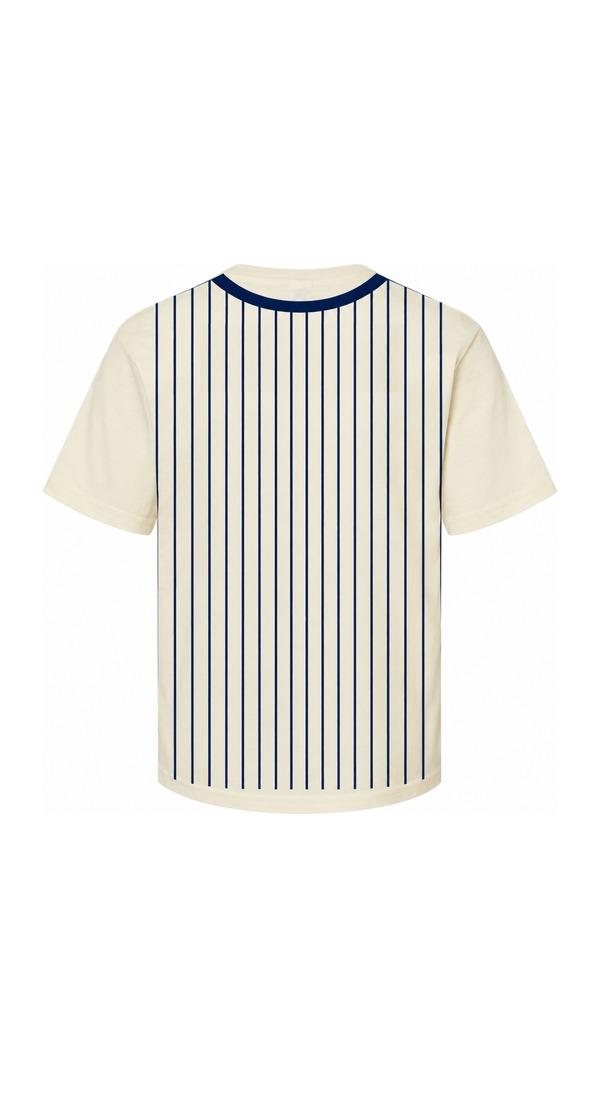
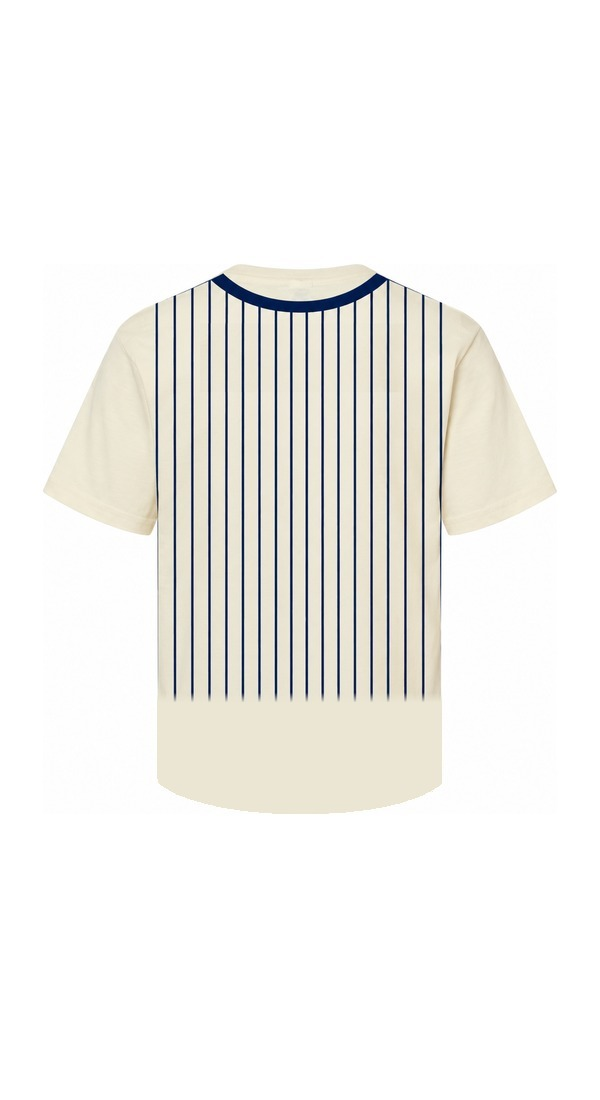
Kindergarten 50: rename products, YXS/YS/YM sizing, order deadline, photo fixes
- Rename products per Anne's requested naming: T-Birds Leather Jacket Tee,
  Rydell Cheer Tee, Blue 50s Varsity Sweater, Red 50s Varsity Sweater,
  Baseball Jersey Tee, Poodle Black Scarf Tee, Poodle Pink Collar Tee.
- Fix blurb copy on the two Varsity Sweater cardigans, which had leftover
  "pinstripe baseball jersey" text that didn't match the actual photos.
- Switch size options to YXS/YS/YM; size-chart button now reads "Click for
  size specs" / "Hide size specs".
- Add an "Order by Wed, Oct 7 to receive by Wed, Oct 13" banner to the
  section intro.
- Crop the child's face out of the Red 50s Varsity Sweater front photo
  (matching the no-faces framing already used elsewhere in the catalog).
- Shorten the pinstripe print on Baseball Jersey Tee and Peaches Baseball
  Tee (front+back) so it stops before the hem with plain fabric showing,
  instead of misleadingly running the full length of the shirt.
- Bump SITE_BUILD_ID to kinder50-catalog-v6.

Changed region(s): [[0.27, 0.6182, 0.75, 0.7418]]

diff --git a/index.html b/index.html
@@ -1082,8 +1082,9 @@
   <!-- KINDERGARTEN 50s (fixed design, fixed color per style, youth XS-M) -->
   <section class="card" id="kinder50">
     <h2>Kindergarten 50s</h2>
-    <p class="sub">50th Day of School costume tees — each style is a fixed design on one tee color with a graphic pressed on (shown in the photo), youth sizing XS–M. $25–$30 depending on style — see each card for its price.</p>
-    <button type="button" class="size-chart-link" id="kinder50SizeChartToggle">View size chart</button>
+    <p class="sub">50th Day of School costume tees — each style is a fixed design on one tee color with a graphic pressed on (shown in the photo), youth sizing YXS–YM. $25–$30 depending on style — see each card for its price.</p>
+    <p style="font-weight:700;color:var(--coral-dark);margin:4px 0 0;">Order by Wed, Oct 7 to receive by Wed, Oct 13 for school pickup.</p>
+    <button type="button" class="size-chart-link" id="kinder50SizeChartToggle">Click for size specs</button>
     <table class="size-chart-table" id="kinder50Chart"></table>
     <div class="product-grid" id="kinder50Grid"></div>
   </section>
@@ -1266,7 +1267,7 @@ const NV_SALES_TAX_RATE = 0.08375;
 // date: reload once to pick up the new one, and if it is still stale after that,
 // refuse to render the checkout buttons rather than take a wrong-amount payment.
 // Bump SITE_BUILD_ID and version.json together on every deploy that changes money.
-const SITE_BUILD_ID = '2026-10-04-kinder50-catalog-v5';
+const SITE_BUILD_ID = '2026-10-04-kinder50-catalog-v6';
 let siteBuildStale = false;
 
 function showStaleNotice(){
@@ -2432,27 +2433,28 @@ refreshWolvesButtersoftCustomizer();
 // whether to pay +$5 for a custom name in small script vs. the standard look as shown
 // in the FINAL DTF GANG SHEET. customPlacement is just the on-card helper label; the
 // cart line's backText carries the actual name through to the Orders Hub / receipt.
-const KINDER50_SIZES = ["XS (2-4)","S (6-8)","M (10-12)"];
+const KINDER50_SIZES = ["YXS","YS","YM"];
 const KINDER50_CUSTOM_PRICE = 5;
 const KINDER50_PRODUCTS = [
   { key:'k50-tbirds', price:25, name:'T-Birds Tee (Front Only)', img:'images/kinder50/tbirds.jpg', color:'Black', blurb:"Distressed T-Birds swallow logo — printed on a Black blank. Front only, no back design." },
-  { key:'k50-tbirds-jacket', price:30, name:'T-Birds Varsity Jacket Tee', img:'images/kinder50/tbirds-jacket.jpg', imgBack:'images/kinder50/tbirds-jacket-back.jpg', color:'Black', blurb:"Varsity bomber jacket look with the T-Birds logo — printed on a Black blank." },
+  { key:'k50-tbirds-jacket', price:30, name:'T-Birds Leather Jacket Tee', img:'images/kinder50/tbirds-jacket.jpg', imgBack:'images/kinder50/tbirds-jacket-back.jpg', color:'Black', blurb:"Varsity bomber jacket look with the T-Birds logo — printed on a Black blank." },
   { key:'k50-sandy', price:30, name:'Sandy & Pink Ladies Tee', img:'images/kinder50/sandy.jpg', imgBack:'images/kinder50/pink-ladies-back.jpg', color:'Pink', blurb:"“Sandy” polka-dot bandana collar graphic on the front, “Pink Ladies” script on the back — printed on a Pink blank.", customizable:true, customPlacement:'child\'s name in place of “Sandy” on the front' },
-  { key:'k50-ro-collar', price:30, name:'R.O. Collar & Rydell Tee', img:'images/kinder50/ro-collar.jpg', imgBack:'images/kinder50/rydell-back.jpg', color:'White', blurb:"Collared tee with a megaphone “R” graphic on the front, arched “Rydell” script on the back — printed on a White blank." },
-  { key:'k50-pinstripe', price:30, name:'Fifty Days Pinstripe Jersey', img:'images/kinder50/pinstripe-fiftydays.jpg', imgBack:'images/kinder50/pinstripe-fiftydays-back.jpg', color:'Navy', blurb:"Script “Fifty Days” pinstripe baseball jersey look — printed on a Navy blank.", customizable:true, customPlacement:'small script name on the back' },
-  { key:'k50-pinstripe-red', price:30, name:'Fifty Days Pinstripe Jersey — Red', img:'images/kinder50/pinstripe-red.jpg', imgBack:'images/kinder50/pinstripe-red-back.jpg', color:'Red', blurb:"Script “Fifty Days” pinstripe baseball jersey look in red — printed on a Red blank.", customizable:true, customPlacement:'small script name on the back' },
-  { key:'k50-baseball-50', price:30, name:'Fifty Days Baseball Jersey', img:'images/kinder50/baseball-50.jpg', imgBack:'images/kinder50/baseball-50-back.jpg', color:'Natural', blurb:"Pinstripe baseball jersey with a bold “50” on the back — printed on a Natural blank.", customizable:true, customPlacement:'small script name on the back' },
+  { key:'k50-ro-collar', price:30, name:'Rydell Cheer Tee', img:'images/kinder50/ro-collar.jpg', imgBack:'images/kinder50/rydell-back.jpg', color:'White', blurb:"Collared tee with a megaphone “R” graphic on the front, arched “Rydell” script on the back — printed on a White blank." },
+  { key:'k50-pinstripe', price:30, name:'Blue 50s Varsity Sweater', img:'images/kinder50/pinstripe-fiftydays.jpg', imgBack:'images/kinder50/pinstripe-fiftydays-back.jpg', color:'Navy', blurb:"Varsity cardigan tee look with a bold gold “50” across the chest and a striped ribbed waistband — printed on a Navy blank.", customizable:true, customPlacement:'small script name on the back' },
+  { key:'k50-pinstripe-red', price:30, name:'Red 50s Varsity Sweater', img:'images/kinder50/pinstripe-red.jpg', imgBack:'images/kinder50/pinstripe-red-back.jpg', color:'Red', blurb:"Varsity cardigan tee look with gold “K” and “50” patches and a striped ribbed waistband — printed on a Red blank.", customizable:true, customPlacement:'small script name on the back' },
+  { key:'k50-baseball-50', price:30, name:'Baseball Jersey Tee', img:'images/kinder50/baseball-50.jpg', imgBack:'images/kinder50/baseball-50-back.jpg', color:'Natural', blurb:"Pinstripe baseball jersey with a bold “50” on the back — printed on a Natural blank.", customizable:true, customPlacement:'small script name on the back' },
   { key:'k50-baseball-peaches', price:30, name:'“Peaches” Baseball Tee', img:'images/kinder50/baseball-peaches.jpg', imgBack:'images/kinder50/baseball-peaches-back.jpg', color:'Cream', blurb:"A League of Their Own-inspired “Peaches” baseball look — printed on a Cream blank.", customizable:true, customPlacement:'small script name on the back' },
   { key:'k50-garage', price:30, name:'Garage Tee', img:'images/kinder50/garage-champ.jpg', imgBack:'images/kinder50/garage-back.jpg', color:'Carbon', blurb:"Mechanic-shop look, “BRUH” front patch (or customize it with your own name) and a “50th Day Garage” hot-rod back patch — printed on a Carbon blank.", customizable:true, customPlacement:'name patch in place of “BRUH”' },
   { key:'k50-bowling', price:30, name:'Bowling Night Tee', img:'images/kinder50/bowling.jpg', imgBack:'images/kinder50/bowling-back.jpg', color:'Diving Blue', blurb:"Retro bowling shirt look, “Gutter Greasers” and a slanted “50” on the back — printed on a Diving Blue blank.", customizable:true, customPlacement:'optional nametag on the back' },
   { key:'k50-diner', price:30, name:'50th Day Diner Tee', img:'images/kinder50/diner.jpg', imgBack:'images/kinder50/diner-back.jpg', color:'White', blurb:"Diner apron and bow-tie look — printed on a White blank.", customizable:true, customPlacement:'small script name on the apron tag' },
-  { key:'k50-poodle-bandana', price:30, name:'Poodle Skirt Set — Black Bandana', img:'images/kinder50/poodle-black.jpg', imgBack:'images/kinder50/poodle-black-back.jpg', color:'White', blurb:"50s poodle-skirt look with a black polka-dot bandana collar and a gold “50” — printed on a White blank.", customizable:true, customPlacement:'small name patch below the collar' },
-  { key:'k50-poodle-collar', price:30, name:'Poodle Skirt Set — Pink Collar', img:'images/kinder50/poodle-pink.jpg', imgBack:'images/kinder50/poodle-pink-back.jpg', color:'White', blurb:"50s poodle-skirt look with a pink scallop collar and a gold “50” — printed on a White blank.", customizable:true, customPlacement:'small name patch below the collar' }
+  { key:'k50-poodle-bandana', price:30, name:'Poodle Black Scarf Tee', img:'images/kinder50/poodle-black.jpg', imgBack:'images/kinder50/poodle-black-back.jpg', color:'White', blurb:"50s poodle-skirt look with a black polka-dot bandana collar and a gold “50” — printed on a White blank.", customizable:true, customPlacement:'small name patch below the collar' },
+  { key:'k50-poodle-collar', price:30, name:'Poodle Pink Collar Tee', img:'images/kinder50/poodle-pink.jpg', imgBack:'images/kinder50/poodle-pink-back.jpg', color:'White', blurb:"50s poodle-skirt look with a pink scallop collar and a gold “50” — printed on a White blank.", customizable:true, customPlacement:'small name patch below the collar' }
 ];
 
 buildSizeChart(document.getElementById('kinder50Chart'), YOUTH_MEASUREMENTS);
 document.getElementById('kinder50SizeChartToggle').addEventListener('click', () => {
-  document.getElementById('kinder50Chart').classList.toggle('show');
+  const shown = document.getElementById('kinder50Chart').classList.toggle('show');
+  document.getElementById('kinder50SizeChartToggle').textContent = shown ? 'Hide size specs' : 'Click for size specs';
 });
 
 const kinder50GridEl = document.getElementById('kinder50Grid');

diff --git a/order.html b/order.html
@@ -1082,8 +1082,9 @@
   <!-- KINDERGARTEN 50s (fixed design, fixed color per style, youth XS-M) -->
   <section class="card" id="kinder50">
     <h2>Kindergarten 50s</h2>
-    <p class="sub">50th Day of School costume tees — each style is a fixed design on one tee color with a graphic pressed on (shown in the photo), youth sizing XS–M. $25–$30 depending on style — see each card for its price.</p>
-    <button type="button" class="size-chart-link" id="kinder50SizeChartToggle">View size chart</button>
+    <p class="sub">50th Day of School costume tees — each style is a fixed design on one tee color with a graphic pressed on (shown in the photo), youth sizing YXS–YM. $25–$30 depending on style — see each card for its price.</p>
+    <p style="font-weight:700;color:var(--coral-dark);margin:4px 0 0;">Order by Wed, Oct 7 to receive by Wed, Oct 13 for school pickup.</p>
+    <button type="button" class="size-chart-link" id="kinder50SizeChartToggle">Click for size specs</button>
     <table class="size-chart-table" id="kinder50Chart"></table>
     <div class="product-grid" id="kinder50Grid"></div>
   </section>
@@ -1266,7 +1267,7 @@ const NV_SALES_TAX_RATE = 0.08375;
 // date: reload once to pick up the new one, and if it is still stale after that,
 // refuse to render the checkout buttons rather than take a wrong-amount payment.
 // Bump SITE_BUILD_ID and version.json together on every deploy that changes money.
-const SITE_BUILD_ID = '2026-10-04-kinder50-catalog-v5';
+const SITE_BUILD_ID = '2026-10-04-kinder50-catalog-v6';
 let siteBuildStale = false;
 
 function showStaleNotice(){
@@ -2432,27 +2433,28 @@ refreshWolvesButtersoftCustomizer();
 // whether to pay +$5 for a custom name in small script vs. the standard look as shown
 // in the FINAL DTF GANG SHEET. customPlacement is just the on-card helper label; the
 // cart line's backText carries the actual name through to the Orders Hub / receipt.
-const KINDER50_SIZES = ["XS (2-4)","S (6-8)","M (10-12)"];
+const KINDER50_SIZES = ["YXS","YS","YM"];
 const KINDER50_CUSTOM_PRICE = 5;
 const KINDER50_PRODUCTS = [
   { key:'k50-tbirds', price:25, name:'T-Birds Tee (Front Only)', img:'images/kinder50/tbirds.jpg', color:'Black', blurb:"Distressed T-Birds swallow logo — printed on a Black blank. Front only, no back design." },
-  { key:'k50-tbirds-jacket', price:30, name:'T-Birds Varsity Jacket Tee', img:'images/kinder50/tbirds-jacket.jpg', imgBack:'images/kinder50/tbirds-jacket-back.jpg', color:'Black', blurb:"Varsity bomber jacket look with the T-Birds logo — printed on a Black blank." },
+  { key:'k50-tbirds-jacket', price:30, name:'T-Birds Leather Jacket Tee', img:'images/kinder50/tbirds-jacket.jpg', imgBack:'images/kinder50/tbirds-jacket-back.jpg', color:'Black', blurb:"Varsity bomber jacket look with the T-Birds logo — printed on a Black blank." },
   { key:'k50-sandy', price:30, name:'Sandy & Pink Ladies Tee', img:'images/kinder50/sandy.jpg', imgBack:'images/kinder50/pink-ladies-back.jpg', color:'Pink', blurb:"“Sandy” polka-dot bandana collar graphic on the front, “Pink Ladies” script on the back — printed on a Pink blank.", customizable:true, customPlacement:'child\'s name in place of “Sandy” on the front' },
-  { key:'k50-ro-collar', price:30, name:'R.O. Collar & Rydell Tee', img:'images/kinder50/ro-collar.jpg', imgBack:'images/kinder50/rydell-back.jpg', color:'White', blurb:"Collared tee with a megaphone “R” graphic on the front, arched “Rydell” script on the back — printed on a White blank." },
-  { key:'k50-pinstripe', price:30, name:'Fifty Days Pinstripe Jersey', img:'images/kinder50/pinstripe-fiftydays.jpg', imgBack:'images/kinder50/pinstripe-fiftydays-back.jpg', color:'Navy', blurb:"Script “Fifty Days” pinstripe baseball jersey look — printed on a Navy blank.", customizable:true, customPlacement:'small script name on the back' },
-  { key:'k50-pinstripe-red', price:30, name:'Fifty Days Pinstripe Jersey — Red', img:'images/kinder50/pinstripe-red.jpg', imgBack:'images/kinder50/pinstripe-red-back.jpg', color:'Red', blurb:"Script “Fifty Days” pinstripe baseball jersey look in red — printed on a Red blank.", customizable:true, customPlacement:'small script name on the back' },
-  { key:'k50-baseball-50', price:30, name:'Fifty Days Baseball Jersey', img:'images/kinder50/baseball-50.jpg', imgBack:'images/kinder50/baseball-50-back.jpg', color:'Natural', blurb:"Pinstripe baseball jersey with a bold “50” on the back — printed on a Natural blank.", customizable:true, customPlacement:'small script name on the back' },
+  { key:'k50-ro-collar', price:30, name:'Rydell Cheer Tee', img:'images/kinder50/ro-collar.jpg', imgBack:'images/kinder50/rydell-back.jpg', color:'White', blurb:"Collared tee with a megaphone “R” graphic on the front, arched “Rydell” script on the back — printed on a White blank." },
+  { key:'k50-pinstripe', price:30, name:'Blue 50s Varsity Sweater', img:'images/kinder50/pinstripe-fiftydays.jpg', imgBack:'images/kinder50/pinstripe-fiftydays-back.jpg', color:'Navy', blurb:"Varsity cardigan tee look with a bold gold “50” across the chest and a striped ribbed waistband — printed on a Navy blank.", customizable:true, customPlacement:'small script name on the back' },
+  { key:'k50-pinstripe-red', price:30, name:'Red 50s Varsity Sweater', img:'images/kinder50/pinstripe-red.jpg', imgBack:'images/kinder50/pinstripe-red-back.jpg', color:'Red', blurb:"Varsity cardigan tee look with gold “K” and “50” patches and a striped ribbed waistband — printed on a Red blank.", customizable:true, customPlacement:'small script name on the back' },
+  { key:'k50-baseball-50', price:30, name:'Baseball Jersey Tee', img:'images/kinder50/baseball-50.jpg', imgBack:'images/kinder50/baseball-50-back.jpg', color:'Natural', blurb:"Pinstripe baseball jersey with a bold “50” on the back — printed on a Natural blank.", customizable:true, customPlacement:'small script name on the back' },
   { key:'k50-baseball-peaches', price:30, name:'“Peaches” Baseball Tee', img:'images/kinder50/baseball-peaches.jpg', imgBack:'images/kinder50/baseball-peaches-back.jpg', color:'Cream', blurb:"A League of Their Own-inspired “Peaches” baseball look — printed on a Cream blank.", customizable:true, customPlacement:'small script name on the back' },
   { key:'k50-garage', price:30, name:'Garage Tee', img:'images/kinder50/garage-champ.jpg', imgBack:'images/kinder50/garage-back.jpg', color:'Carbon', blurb:"Mechanic-shop look, “BRUH” front patch (or customize it with your own name) and a “50th Day Garage” hot-rod back patch — printed on a Carbon blank.", customizable:true, customPlacement:'name patch in place of “BRUH”' },
   { key:'k50-bowling', price:30, name:'Bowling Night Tee', img:'images/kinder50/bowling.jpg', imgBack:'images/kinder50/bowling-back.jpg', color:'Diving Blue', blurb:"Retro bowling shirt look, “Gutter Greasers” and a slanted “50” on the back — printed on a Diving Blue blank.", customizable:true, customPlacement:'optional nametag on the back' },
   { key:'k50-diner', price:30, name:'50th Day Diner Tee', img:'images/kinder50/diner.jpg', imgBack:'images/kinder50/diner-back.jpg', color:'White', blurb:"Diner apron and bow-tie look — printed on a White blank.", customizable:true, customPlacement:'small script name on the apron tag' },
-  { key:'k50-poodle-bandana', price:30, name:'Poodle Skirt Set — Black Bandana', img:'images/kinder50/poodle-black.jpg', imgBack:'images/kinder50/poodle-black-back.jpg', color:'White', blurb:"50s poodle-skirt look with a black polka-dot bandana collar and a gold “50” — printed on a White blank.", customizable:true, customPlacement:'small name patch below the collar' },
-  { key:'k50-poodle-collar', price:30, name:'Poodle Skirt Set — Pink Collar', img:'images/kinder50/poodle-pink.jpg', imgBack:'images/kinder50/poodle-pink-back.jpg', color:'White', blurb:"50s poodle-skirt look with a pink scallop collar and a gold “50” — printed on a White blank.", customizable:true, customPlacement:'small name patch below the collar' }
+  { key:'k50-poodle-bandana', price:30, name:'Poodle Black Scarf Tee', img:'images/kinder50/poodle-black.jpg', imgBack:'images/kinder50/poodle-black-back.jpg', color:'White', blurb:"50s poodle-skirt look with a black polka-dot bandana collar and a gold “50” — printed on a White blank.", customizable:true, customPlacement:'small name patch below the collar' },
+  { key:'k50-poodle-collar', price:30, name:'Poodle Pink Collar Tee', img:'images/kinder50/poodle-pink.jpg', imgBack:'images/kinder50/poodle-pink-back.jpg', color:'White', blurb:"50s poodle-skirt look with a pink scallop collar and a gold “50” — printed on a White blank.", customizable:true, customPlacement:'small name patch below the collar' }
 ];
 
 buildSizeChart(document.getElementById('kinder50Chart'), YOUTH_MEASUREMENTS);
 document.getElementById('kinder50SizeChartToggle').addEventListener('click', () => {
-  document.getElementById('kinder50Chart').classList.toggle('show');
+  const shown = document.getElementById('kinder50Chart').classList.toggle('show');
+  document.getElementById('kinder50SizeChartToggle').textContent = shown ? 'Hide size specs' : 'Click for size specs';
 });
 
 const kinder50GridEl = document.getElementById('kinder50Grid');
